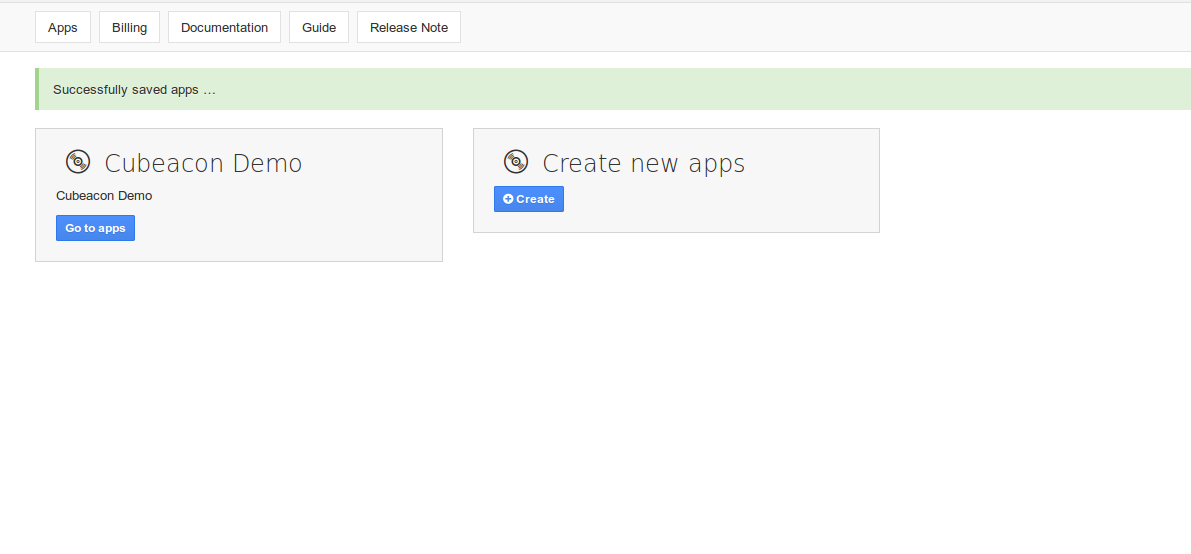
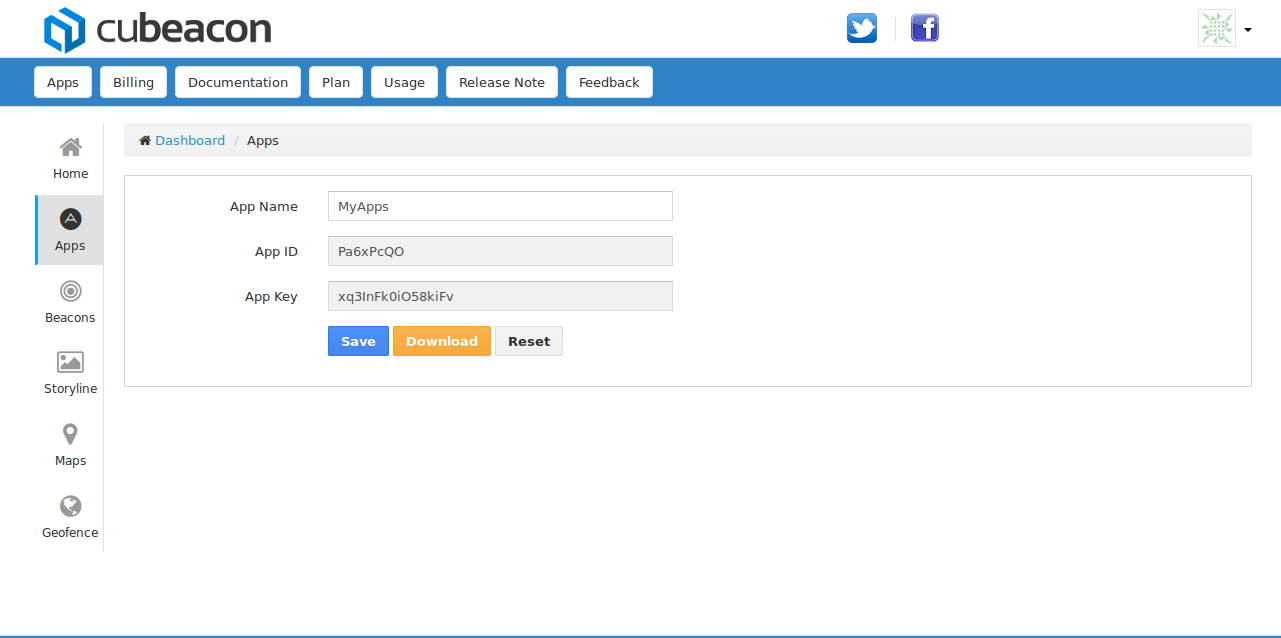
edit docs managing apps

diff --git a/saas/getting-started/index.html b/saas/getting-started/index.html
@@ -28,6 +28,10 @@ categories: posts
 		<p>This section is a manual on how to manage beacon information such as UUID, major, minor, color flag, etc.</p>
 	</li>
 	<li>
+		<a href="/saas/managing-brochures">Storyline.</a>
+		<p>This section is a manual guideline on how to manage the notification that will be displayed on mobile phone while passing through the beacon. Notification available on text or image.</p>
+	</li>
+	<li>
 		<a href="/saas/managing-maps">Managing Maps.</a>
 		<p>This section is a manual guideline on how to manage maps data. It is very simple to use it. just drag and drop the beacon to image map that is uploaded.</p>
 	</li>
@@ -38,10 +42,6 @@ categories: posts
 	<li>
 		<a href="/saas/geofencing">Managing Groups/Geofencing.</a>
 		<p>This section explains on how to coordinate user’s company location. If there is customer nearby the coordinate range, there will be notification or greetings.</p>
-	</li>
-	<li>
-		<a href="/saas/managing-brochures">Managing Brochures.</a>
-		<p>This section is a manual guideline on how to manage the brochure that will be displayed on mobile phone while passing through the beacon.</p>
 	</li>
 	<li>
 		<a href="/saas/upgrade-plan">Upgrade Plan.</a>

diff --git a/saas/managing-apps/index.html b/saas/managing-apps/index.html
@@ -18,18 +18,9 @@ categories: posts
 	</li>
 	<li>If there is a sudden error and apps cannot be activated, wait 1x24 hours then activate using the activate button.</li>
 	<li>Go to the app.
-		<img class="post-image" src="/images/cu_app_4.png" alt="cu_app_4.png">
+		<img class="post-image" src="/images/cu_app_3.png" alt="cu_app_4.png">
 	</li>
-	<li>Click app setting.
-		<img class="post-image" src="/images/cu_apps_5.png" alt="cu_apps_5.png">
-	</li>
-	<li>Set your global notification on tab advance.
-		<img class="post-image" src="/images/cu_apps_6.png" alt="cu_apps_6.png">
-	</li>
-	<li>Save configuration.
-		<img class="post-image" src="/images/cu_apps_7.png" alt="cu_apps_7.png">
-	</li>
-	<li>Download SDK.
-		<img class="post-image" src="/images/cu_apps_8.png" alt="cu_apps_8.png">
+	<li>Click apps, you can edit the label of apps and download SDK.
+		<img class="post-image" src="/images/cu_apps_4.png" alt="cu_apps_5.png">
 	</li>
 </ol>

diff --git a/saas/signup-account/index.html b/saas/signup-account/index.html
@@ -13,7 +13,7 @@ categories: posts
 	<li>Click hyperlink sign up at login page.</li>
 	<img class="post-image" src="/images/signup-link.png" alt="click hyperlink sign up at login page.">
 	<li>Fill in your details.</li>
-	<img class="post-image" src="/images/signup-fill-your-details.png" alt="fill in your details.">
+	<img class="post-image" src="/images/signup-cubeacon.png" alt="fill in your details.">
 	<li>You need to verify the account by the input code has been sent via e-mail</li>
 	<img class="post-image" src="/images/signup-verification-email.png" alt="you need to verify the account by the input code has been sent via e-mail">
 </ol>
